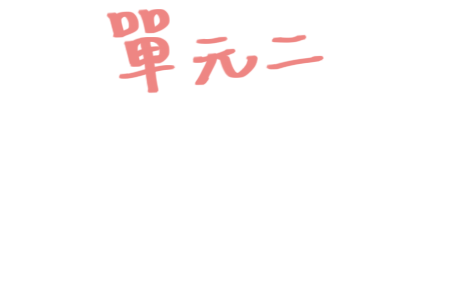
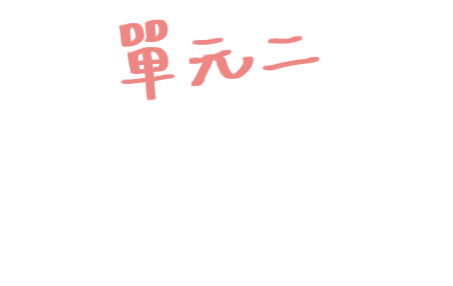
換圖 一點bug修正

diff --git a/Classes/Scene/MenuScene.cpp b/Classes/Scene/MenuScene.cpp
@@ -88,16 +88,16 @@ bool MenuScene::init()
     _scoreText->setString(ss);
     
     //遊戲按鈕
-    bool finish = true;
+    _finish = true;
     for(int i=0;i<5;i++){
         sprintf(name, "U%d_FINISH",i+1);
-        if(UserDefault::getInstance()->getIntegerForKey(name) <12 )finish = false;
+        if(UserDefault::getInstance()->getIntegerForKey(name) <12 )_finish = false;
     }
     auto btn = rootNode->getChildByName("title_g");
     _gameBtn.setButtonInfo("menu_game_on.png","menu_game_on.png","menu_game_lock.png", *this, btn->getPosition(), 1);
     _gameBtn.setScale(btn->getScaleX(), btn->getScaleY());
     _gameBtn.setRotate(btn->getRotation());
-//    if(UserDefault::getInstance()->getIntegerForKey("STAR") < 5 || finish) _gameBtn.setEnabled(false);
+    if(UserDefault::getInstance()->getIntegerForKey("STAR") < 5 && !_finish) _gameBtn.setEnabled(false);
     rootNode->removeChild(btn);
     
     //排行按鈕
@@ -157,10 +157,11 @@ void MenuScene::ChangeScene(int changescene,int chap)
             scene = TeachScene::createScene(chap);
             break;
         case GameScene:
-            k = UserDefault::getInstance()->getIntegerForKey("STAR")-5;
-            UserDefault::getInstance()->setIntegerForKey("STAR", k);
-            UserDefault::getInstance()->flush();
-            
+            if(!_finish){
+                k = UserDefault::getInstance()->getIntegerForKey("STAR")-5;
+                UserDefault::getInstance()->setIntegerForKey("STAR", k);
+                UserDefault::getInstance()->flush();
+            }
             scene = GameScene::createScene();
             break;
         case BoardScene:

diff --git a/Classes/Scene/HomeScene.cpp b/Classes/Scene/HomeScene.cpp
@@ -74,7 +74,7 @@ bool HomeScene::init()
 
 	//標題按鈕
 	auto title = rootNode->getChildByName("title");
-	_bTitle.setButtonInfo( "s_title.png", "s_title.png",*this,title->getPosition() ,0);
+	_bTitle.setButtonInfo( "s_title.png", "s_title_w.png","s_title_w.png",*this,title->getPosition() ,0);
 	_bTitle.setScale(title->getScaleX(), title->getScaleY());
 	_bTitle.setRotate(title->getRotation());
 	rootNode->removeChild(title);
@@ -192,6 +192,7 @@ void  HomeScene::onTouchEnded(cocos2d::Touch *pTouch, cocos2d::Event *pEvent) //
 	Point touchLoc = pTouch->getLocation();
 	if (_bTitle.touchesEnded(touchLoc)) {
 		_iTitleTouchTime++;
+        _bTitle.setEnabled(false);
 		if (_iTitleTouchTime == 1) {
 			_grassAction->gotoFrameAndPlay(0, 50, false);
 			_grassAction->setLastFrameCallFunc([=]()

diff --git a/Classes/Scene/element/CAnsCreater.cpp b/Classes/Scene/element/CAnsCreater.cpp
@@ -223,7 +223,7 @@ void CAnsCreater::Input_que(Node &Q, int number) {
 void CAnsCreater::queLineCreater(int number,int q){
     auto line = CSLoader::createNode("Ani/line.csb");
     float xPos = line->getChildByName("2")->getPositionX();
-    float yPos = -150;
+    float yPos = -75;
     line -> setPosition(Vec2(0,yPos));
     addChild(line);
     

diff --git a/Classes/Scene/MenuScene.h b/Classes/Scene/MenuScene.h
@@ -25,6 +25,7 @@ private:
 	Text *_scoreText;
     LoadingBar *_chapLoad[5],*_lightbar[5];
     Sprite * _chapPic[5];
+    bool _finish;
     
 	int _iscale;
     bool _bchangeScene = false;
